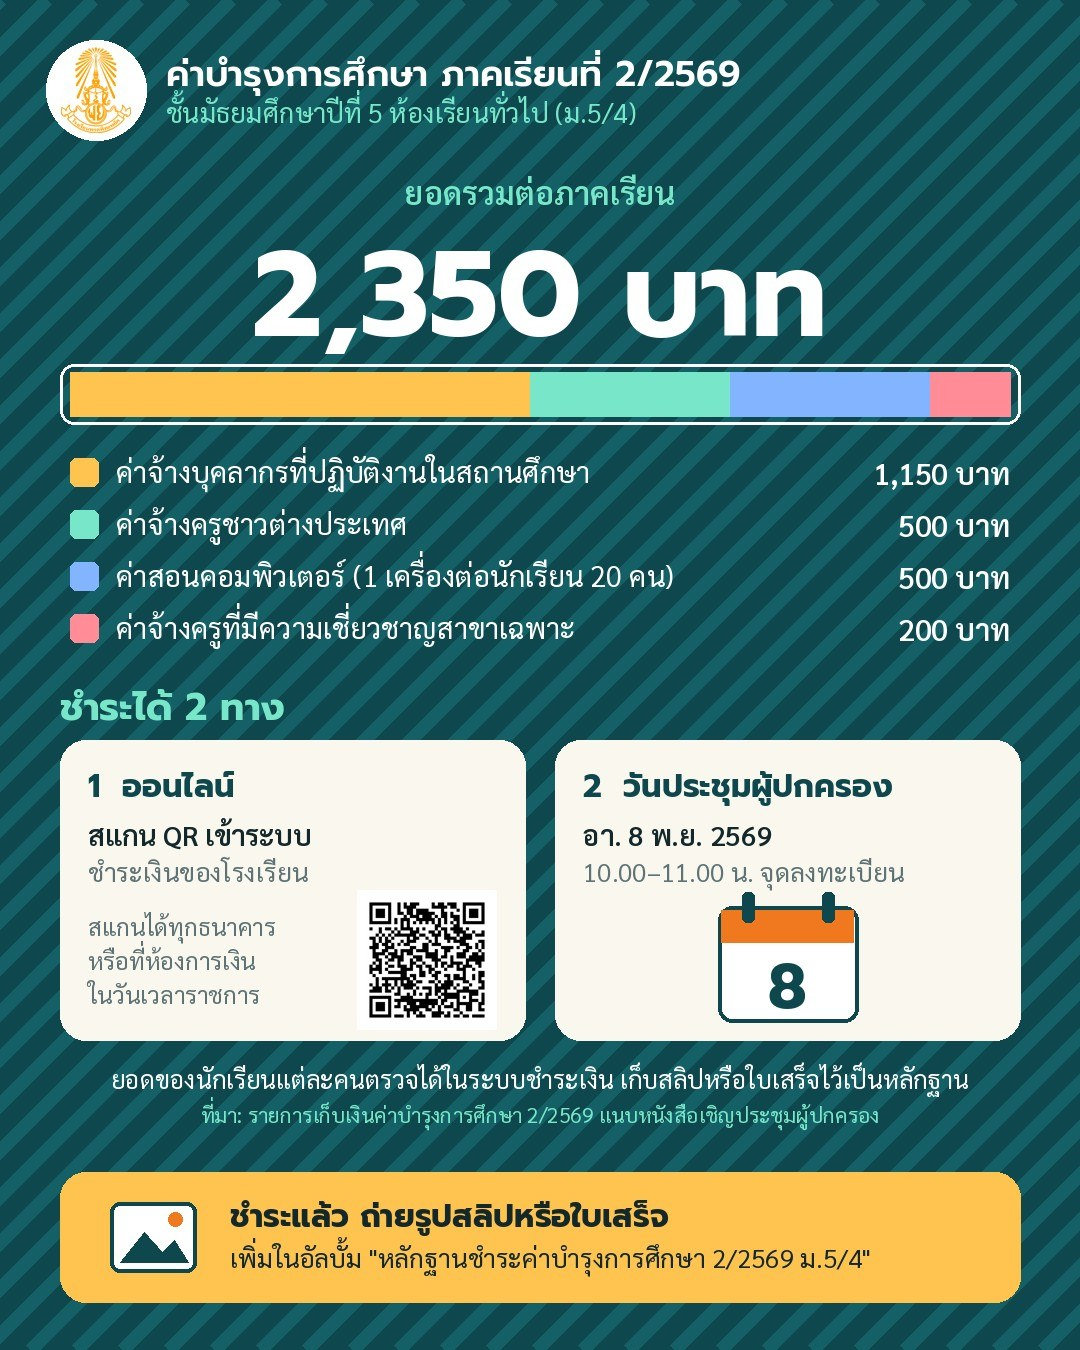
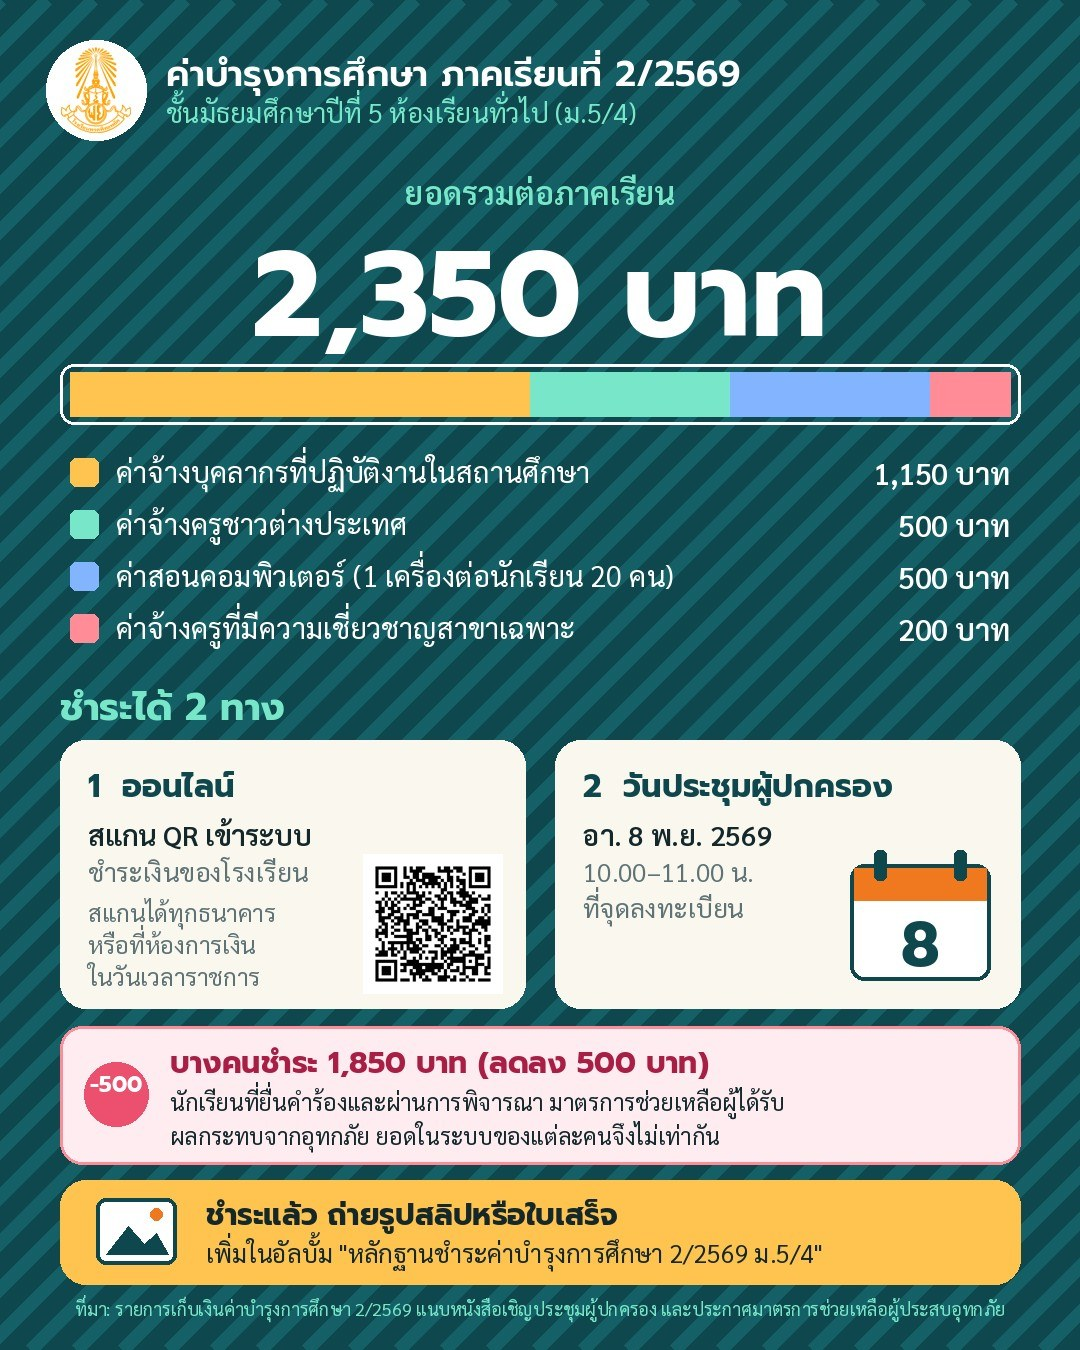
ค่าบำรุง ม.5: ระบุยอด 1,850 บาทสำหรับนักเรียนที่ได้ลด 500 บาทตามมาตรการช่วยเหลือผู้ประสบอุทกภัย และปรับภาพ info
Claude-Session: https://claude.ai/code/session_017JzSfD3PtMhGFkFYsMC6jy

Changed region(s): [[0.0306, 0.6222, 0.9472, 0.9956]]

diff --git a/data/news-2-2569.js b/data/news-2-2569.js
@@ -115,12 +115,13 @@ window.M54_NEWS.push(
   to: ["parent"],
   urgent: false,
   pin: false,
-  summary: "งานการเงินแจ้งผู้ปกครองชำระเงินบำรุงการศึกษา ภาคเรียนที่ 2/2569 ได้ตั้งแต่ 26 ต.ค. 2569 ผ่านระบบชำระเงินออนไลน์ของโรงเรียน (สแกน QR ทุกธนาคาร) ใบ Pay-in ธนาคารกรุงไทย หรือที่ห้องการเงินในวันและเวลาราชการ ชั้น ม.5 ห้องเรียนทั่วไป (ม.5/4) ภาคเรียนละ 2,350 บาท และชำระได้ที่จุดลงทะเบียนวันประชุมผู้ปกครอง 8 พ.ย. 10.00–11.00 น.",
-  body: "งานการเงิน โรงเรียนพรตพิทยพยัต แจ้งการชำระเงินบำรุงการศึกษา ภาคเรียนที่ 2 ปีการศึกษา 2569 ชำระได้ตั้งแต่วันที่ 26 ตุลาคม 2569 เป็นต้นไป\n\nช่องทางชำระ\n- ระบบชำระเงินออนไลน์ของโรงเรียน schoolbillingdev31.com/SBPROT/Pages/PrintReportPayInForStudent.aspx (หรือสแกน QR ในภาพ หรือเข้าทางเว็บไซต์ www.prot.ac.th) สแกน QR จ่ายผ่าน Mobile Banking ได้ทุกธนาคาร\n- ใบ Pay-in ธนาคารกรุงไทย\n- ชำระที่ห้องการเงินของโรงเรียน ในวันและเวลาราชการ\n\nขั้นตอนตรวจยอดและชำระเอง\n- เข้าระบบชำระเงิน กรอกเลขประจำตัวนักเรียน หรือ ชื่อ เว้นวรรค นามสกุล แล้วกด \"ค้นหา\"\n- ถ้ายังไม่ได้ชำระ จะมี QR ให้สแกนจ่ายผ่านธนาคาร (เปลี่ยนภาคเรียน/ปี เพื่อดูย้อนหลังได้)\n- หลังสแกนจ่ายแล้ว หน้าจออาจยังแสดง QR อยู่ งานการเงินจะตรวจสอบและออกใบเสร็จภายในประมาณ 7 วันทำการ จึงจะขึ้นสถานะ \"ชำระเงินเรียบร้อยแล้ว\"\n\nอัปเดต 3 พฤศจิกายน 2569: ยอดค่าบำรุงการศึกษา ชั้นมัธยมศึกษาปีที่ 5 ห้องเรียนทั่วไป (ม.5/4) ภาคเรียนที่ 2/2569 รวม 2,350 บาท\n- ค่าจ้างครูชาวต่างประเทศ 500 บาท\n- ค่าจ้างครูที่มีความเชี่ยวชาญสาขาเฉพาะ 200 บาท\n- ค่าสอนคอมพิวเตอร์กรณีโรงเรียนจัดคอมพิวเตอร์ให้เกินมาตรฐานที่รัฐจัดให้ (1 เครื่องต่อนักเรียน 20 คน) 500 บาท\n- ค่าจ้างบุคลากรที่ปฏิบัติงานในสถานศึกษา 1,150 บาท\nยอดของนักเรียนแต่ละคนตรวจได้ในระบบชำระเงิน ชำระได้ที่จุดลงทะเบียนวันประชุมผู้ปกครอง อาทิตย์ 8 พ.ย. 2569 เวลา 10.00–11.00 น. ด้วย ชำระแล้วขอความกรุณาถ่ายรูปสลิปหรือใบเสร็จเพิ่มในอัลบั้ม \"หลักฐานชำระค่าบำรุงการศึกษา 2/2569 ม.5/4\" ในกลุ่ม LINE ผู้ปกครอง\n\nอัตราค่าบำรุงการศึกษาและขั้นตอนอย่างละเอียด ดูได้จากเอกสารของงานการเงินในลิงก์ด้านล่าง สอบถามเพิ่มเติมที่งานการเงิน ในวันและเวลาราชการ (จ.–ศ. 08.30–16.30 น.)\n\nที่มา: ครูจินตนา พิมพ์ทอง งานการเงิน ฝากครูที่ปรึกษาประชาสัมพันธ์ วันที่ 2 พฤศจิกายน 2569",
+  summary: "งานการเงินแจ้งผู้ปกครองชำระเงินบำรุงการศึกษา ภาคเรียนที่ 2/2569 ได้ตั้งแต่ 26 ต.ค. 2569 ผ่านระบบชำระเงินออนไลน์ของโรงเรียน (สแกน QR ทุกธนาคาร) ใบ Pay-in ธนาคารกรุงไทย หรือที่ห้องการเงินในวันและเวลาราชการ ชั้น ม.5 ห้องเรียนทั่วไป (ม.5/4) ภาคเรียนละ 2,350 บาท (นักเรียนที่ยื่นคำร้องและผ่านการพิจารณามาตรการช่วยเหลือผู้ได้รับผลกระทบจากอุทกภัย ลด 500 บาท เหลือ 1,850 บาท) และชำระได้ที่จุดลงทะเบียนวันประชุมผู้ปกครอง 8 พ.ย. 10.00–11.00 น.",
+  body: "งานการเงิน โรงเรียนพรตพิทยพยัต แจ้งการชำระเงินบำรุงการศึกษา ภาคเรียนที่ 2 ปีการศึกษา 2569 ชำระได้ตั้งแต่วันที่ 26 ตุลาคม 2569 เป็นต้นไป\n\nช่องทางชำระ\n- ระบบชำระเงินออนไลน์ของโรงเรียน schoolbillingdev31.com/SBPROT/Pages/PrintReportPayInForStudent.aspx (หรือสแกน QR ในภาพ หรือเข้าทางเว็บไซต์ www.prot.ac.th) สแกน QR จ่ายผ่าน Mobile Banking ได้ทุกธนาคาร\n- ใบ Pay-in ธนาคารกรุงไทย\n- ชำระที่ห้องการเงินของโรงเรียน ในวันและเวลาราชการ\n\nขั้นตอนตรวจยอดและชำระเอง\n- เข้าระบบชำระเงิน กรอกเลขประจำตัวนักเรียน หรือ ชื่อ เว้นวรรค นามสกุล แล้วกด \"ค้นหา\"\n- ถ้ายังไม่ได้ชำระ จะมี QR ให้สแกนจ่ายผ่านธนาคาร (เปลี่ยนภาคเรียน/ปี เพื่อดูย้อนหลังได้)\n- หลังสแกนจ่ายแล้ว หน้าจออาจยังแสดง QR อยู่ งานการเงินจะตรวจสอบและออกใบเสร็จภายในประมาณ 7 วันทำการ จึงจะขึ้นสถานะ \"ชำระเงินเรียบร้อยแล้ว\"\n\nอัปเดต 3 พฤศจิกายน 2569: ยอดค่าบำรุงการศึกษา ชั้นมัธยมศึกษาปีที่ 5 ห้องเรียนทั่วไป (ม.5/4) ภาคเรียนที่ 2/2569 รวม 2,350 บาท\n- ค่าจ้างครูชาวต่างประเทศ 500 บาท\n- ค่าจ้างครูที่มีความเชี่ยวชาญสาขาเฉพาะ 200 บาท\n- ค่าสอนคอมพิวเตอร์กรณีโรงเรียนจัดคอมพิวเตอร์ให้เกินมาตรฐานที่รัฐจัดให้ (1 เครื่องต่อนักเรียน 20 คน) 500 บาท\n- ค่าจ้างบุคลากรที่ปฏิบัติงานในสถานศึกษา 1,150 บาท\nทำไมยอดแต่ละคนไม่เท่ากัน: นักเรียนที่ยื่นคำร้องและผ่านการพิจารณาตามมาตรการช่วยเหลือนักเรียนที่ได้รับผลกระทบจากอุทกภัย ได้ลดค่าบำรุงการศึกษา 500 บาท จึงชำระ 1,850 บาท ส่วนนักเรียนคนอื่นชำระ 2,350 บาท (รายละเอียดมาตรการดูข่าว 31 ต.ค. ในลิงก์ด้านล่าง)\nยอดของนักเรียนแต่ละคนตรวจได้ในระบบชำระเงิน ชำระได้ที่จุดลงทะเบียนวันประชุมผู้ปกครอง อาทิตย์ 8 พ.ย. 2569 เวลา 10.00–11.00 น. ด้วย ชำระแล้วขอความกรุณาถ่ายรูปสลิปหรือใบเสร็จเพิ่มในอัลบั้ม \"หลักฐานชำระค่าบำรุงการศึกษา 2/2569 ม.5/4\" ในกลุ่ม LINE ผู้ปกครอง\n\nอัตราค่าบำรุงการศึกษาและขั้นตอนอย่างละเอียด ดูได้จากเอกสารของงานการเงินในลิงก์ด้านล่าง สอบถามเพิ่มเติมที่งานการเงิน ในวันและเวลาราชการ (จ.–ศ. 08.30–16.30 น.)\n\nที่มา: ครูจินตนา พิมพ์ทอง งานการเงิน ฝากครูที่ปรึกษาประชาสัมพันธ์ วันที่ 2 พฤศจิกายน 2569",
   links: [
     { label: "เว็บไซต์โรงเรียนพรตพิทยพยัต", url: "https://www.prot.ac.th" },
     { label: "ประกาศอัตราค่าบำรุงการศึกษา 2/2569", url: "https://drive.google.com/file/d/1sBod4WtEs6LTw_Dg0Kk4lk7oAMJxfgdh/view?usp=sharing" },
-    { label: "ขั้นตอนตรวจสอบและชำระเงิน", url: "https://drive.google.com/file/d/1vIAXj0Q8hoEdrNo3ADwIweACVzgg2NCX/view?usp=drivesdk" }
+    { label: "ขั้นตอนตรวจสอบและชำระเงิน", url: "https://drive.google.com/file/d/1vIAXj0Q8hoEdrNo3ADwIweACVzgg2NCX/view?usp=drivesdk" },
+    { label: "มาตรการช่วยเหลือผู้ได้รับผลกระทบจากอุทกภัย ลด 500 บาท", url: "https://watpolprot-cloud.github.io/prot-m54-2569/#n=2569-10-31-flood-aid" }
   ],
   files: [ { label: "ยอดค่าบำรุงการศึกษา ม.5 (อัปเดต 3 พ.ย.)", path: "docs/2569/2569-11-03-tuition-m5-info.jpg" }, { label: "ตารางรายการเก็บเงิน ม.5 ภาคเรียนที่ 2/2569", path: "docs/2569/2569-11-03-tuition-m5-table.jpg" }, { label: "ภาพสรุปวิธีชำระค่าบำรุงการศึกษา", path: "docs/2569/2569-11-02-tuition-2-2569.jpg" } ],
   src: "LINE ผู้ปกครอง"
